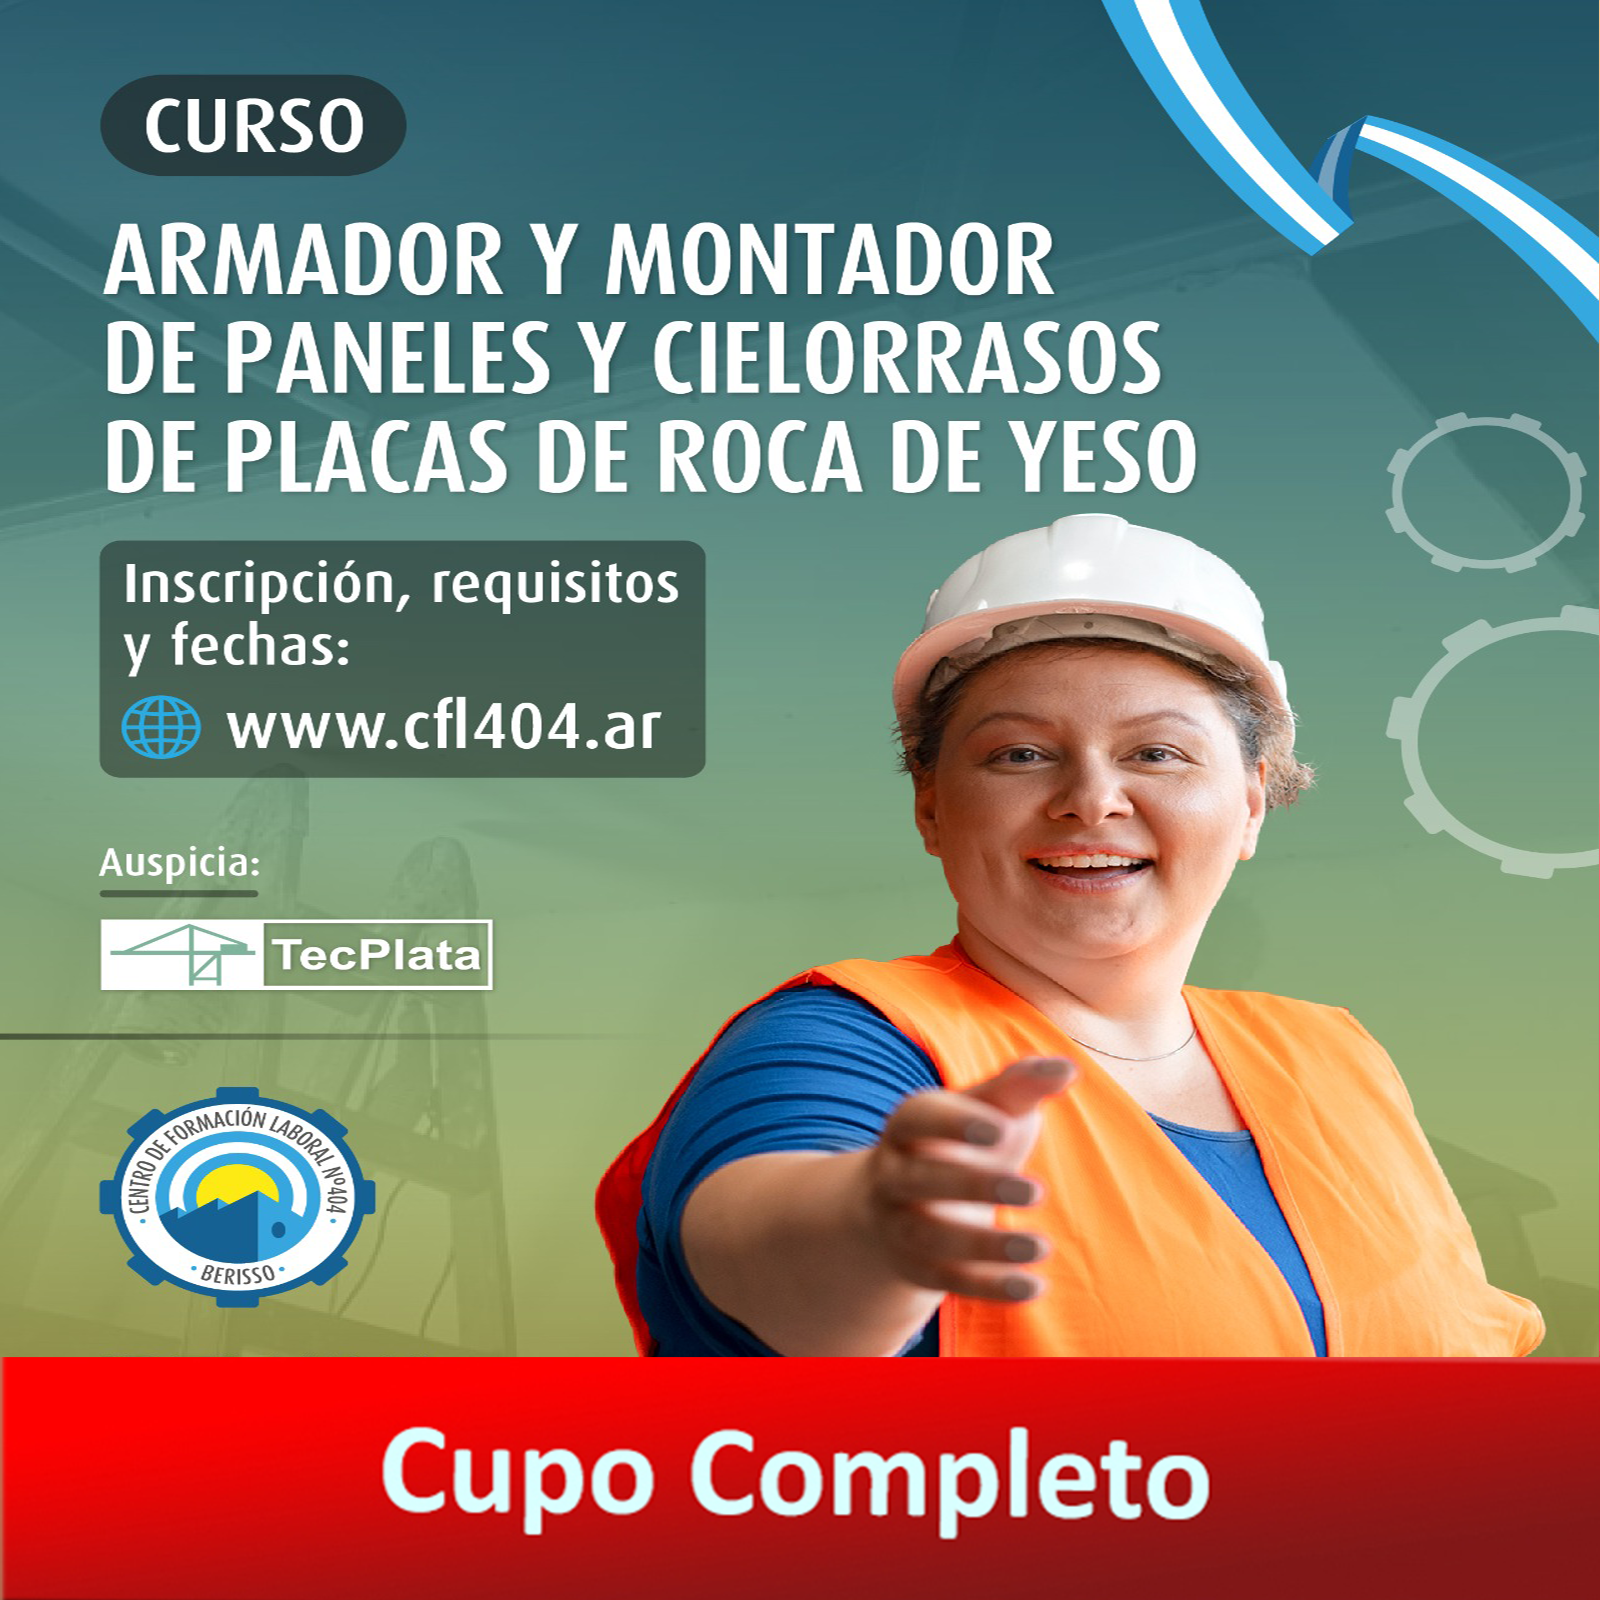
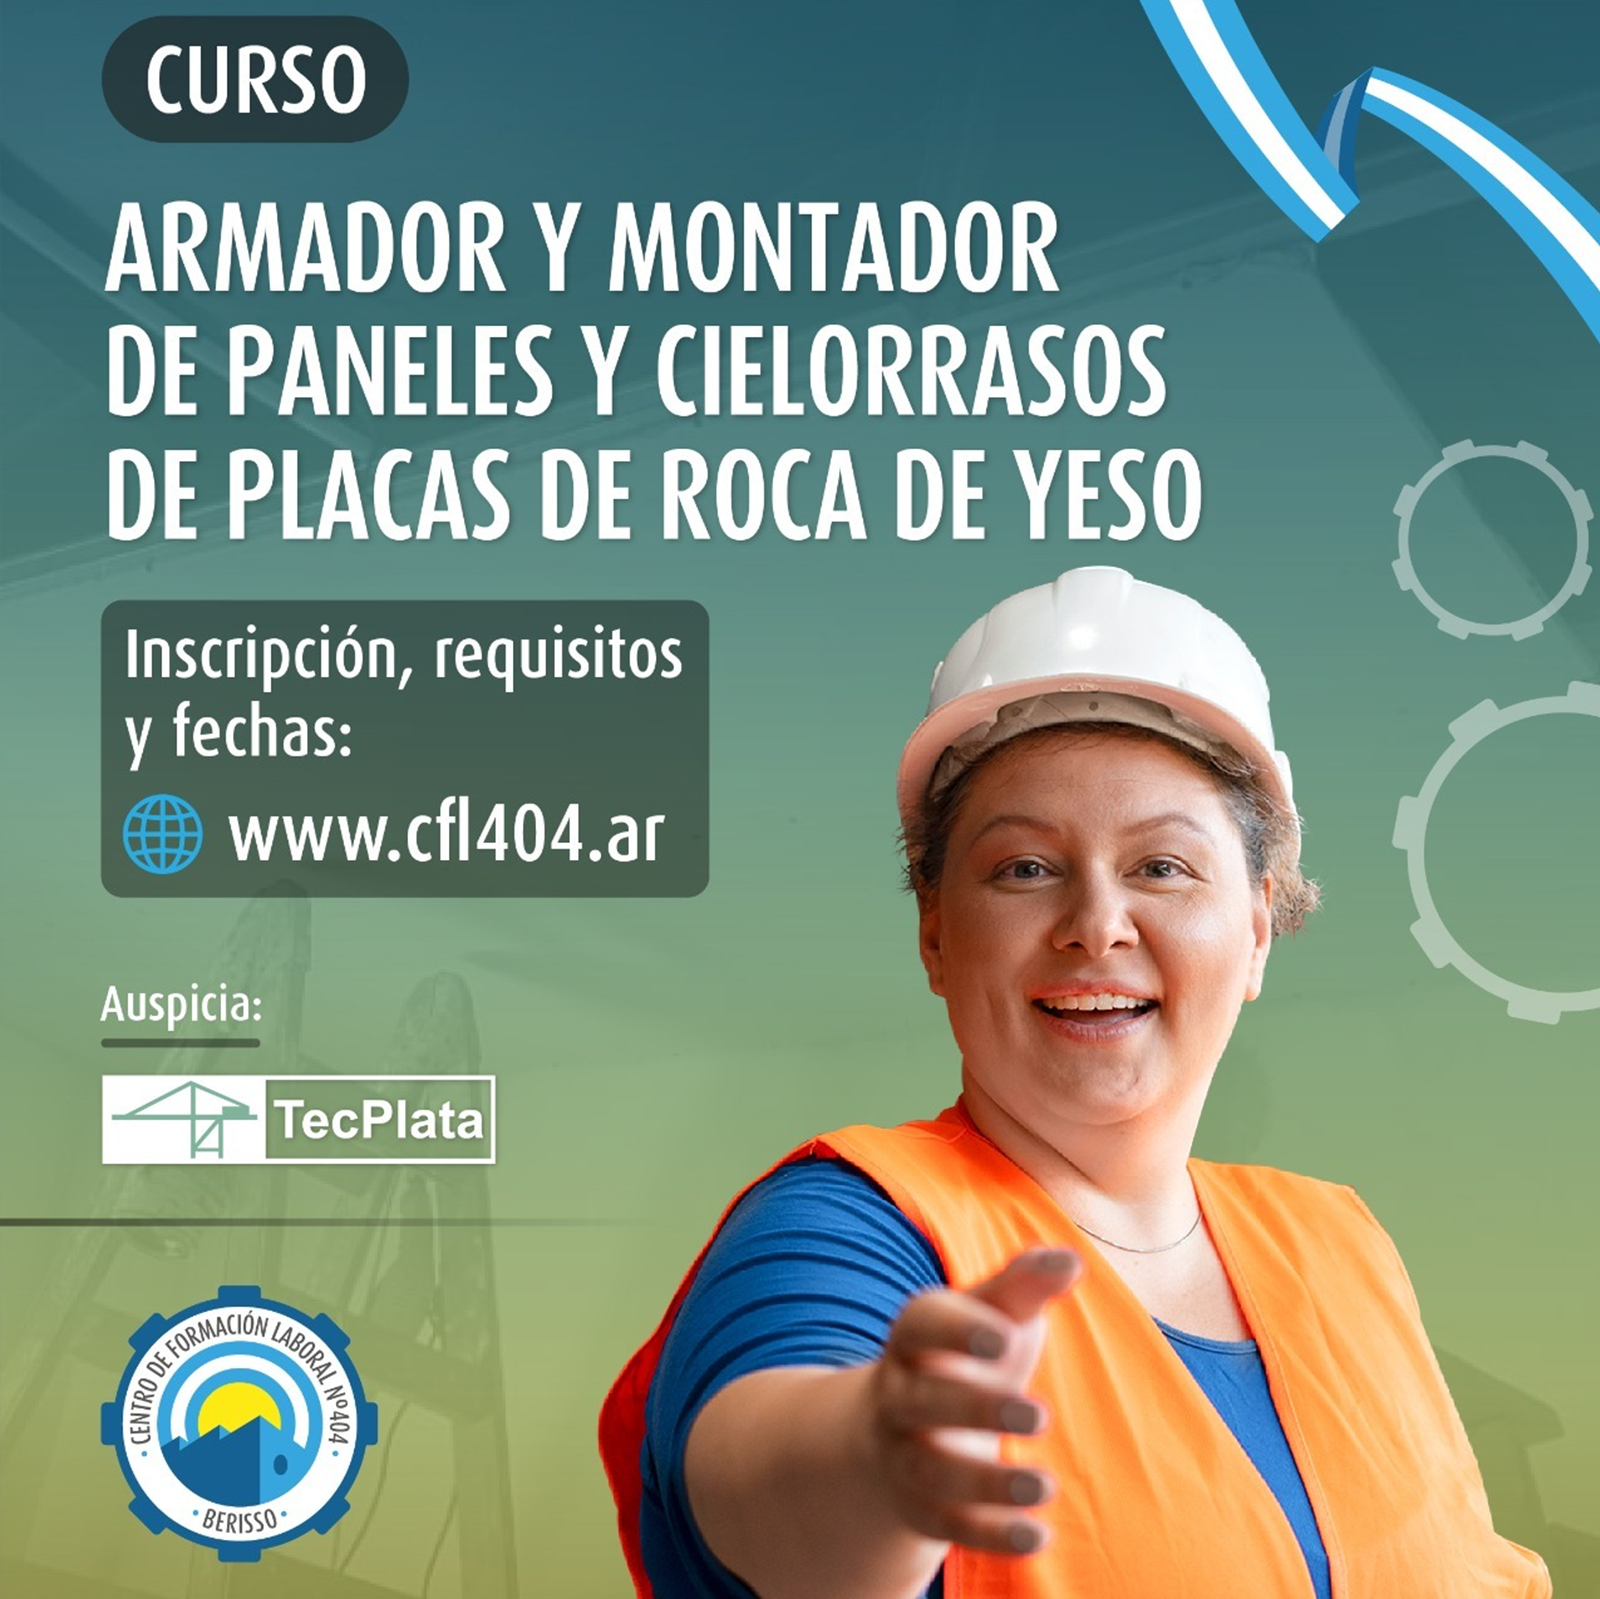
yeso habilitado

diff --git a/index.html b/index.html
@@ -137,6 +137,19 @@
             </div>
         -->
 
+            <div class="cursos">
+                <a href="armadorPlacasYeso.html" target="">
+                    <div class="zoom">
+                        <img src="img/2025/yeso.png" alt="" class="imagen_curso">
+                    </div>
+                    <div class="titulo_cursos">
+                        <h2 class="estilo_h2 h " style="font-size: large;">Armador y Montador de Paneles y Cielorrasos
+                            de Placas de Roca de Yeso</h2>
+                        <h3 class="estilo_h3">Duración: 8 meses</h3>
+                        <h2 class="boton_info"><a href="armadorPlacasYeso.html" target="">+INFO / INSCRIPCIÓN</a></h2>
+                    </div>
+                </a>
+            </div>
 
             <div class="cursos">
                 <a href="administracionPymes.html" target="">
@@ -228,20 +241,6 @@
                         <h2 class="estilo_h2 h">Empalmador Fusionador de Fibra Óptica</h2>
                         <h3 class="estilo_h3">Duración: 6 meses</h3>
                         <h2 class="boton_info"><a href="fibraOptica.html" target="">+INFO / INSCRIPCIÓN</a></h2>
-                    </div>
-                </a>
-            </div>
-            
-            <div class="cursos">
-                <a href="armadorPlacasYeso.html" target="">
-                    <div class="zoom">
-                        <img src="img/2025/yeso.png" alt="" class="imagen_curso">
-                    </div>
-                    <div class="titulo_cursos">
-                        <h2 class="estilo_h2 h " style="font-size: large;">Armador y Montador de Paneles y Cielorrasos
-                            de Placas de Roca de Yeso</h2>
-                        <h3 class="estilo_h3">Duración: 8 meses</h3>
-                        <h2 class="boton_info"><a href="armadorPlacasYeso.html" target="">+INFO / INSCRIPCIÓN</a></h2>
                     </div>
                 </a>
             </div>

diff --git a/armadorPlacasYeso.html b/armadorPlacasYeso.html
@@ -83,11 +83,7 @@
             <li>- Todos los cursos son <strong>TOTALMENTE GRATUITOS</strong></li>
         </ul><br>
 
-        <a href="#"
-        ><button class="mas_info">
-        Cupo Completo
-        </button></a
-      ><br />
+        <a href="https://api.whatsapp.com/send/?phone=5492213192360&text=Hola+quiero+anotarme+en+el+Curso+de+Armador+y+Montador+de+Paneles+y+Cielorrasos+de+Placas+de+Roca+de+Yeso&type=phone_number&app_absent=0"><button class="mas_info">Anotate</button></a><br>
     </div>
 
      <!-- Sección de scripts -->
